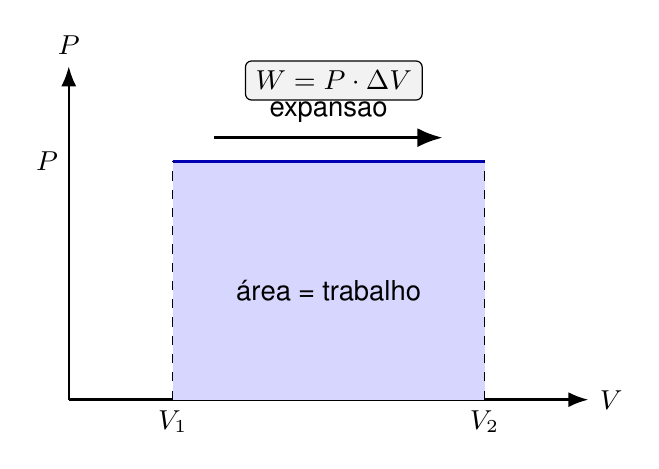
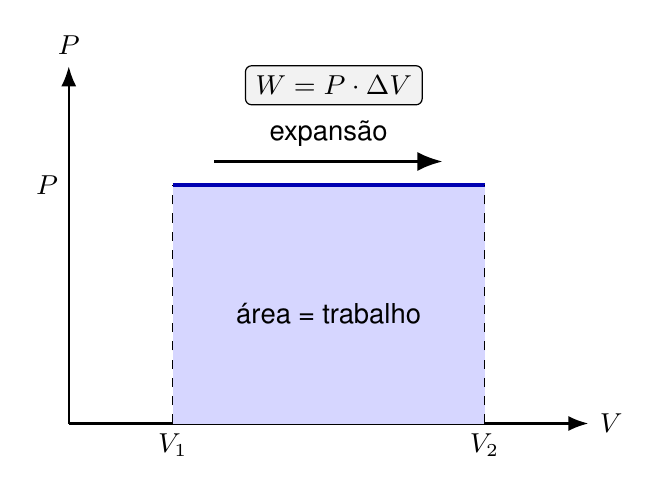
Adiciona TikZ sobre ciclos termodinamicos

diff --git a/Fisica/2serie/unidade-4-termodinamica/figuras_cap07_leis-da-termodinamica.tex b/Fisica/2serie/unidade-4-termodinamica/figuras_cap07_leis-da-termodinamica.tex
@@ -26,7 +26,7 @@
 % TikZ 2
 \begin{tikzpicture}[x=1.2cm,y=1.1cm,>=Latex]
   \draw[->,thick] (0,0) -- (5,0) node[right] {$V$};
-  \draw[->,thick] (0,0) -- (0,3.5) node[above] {$P$};
+  \draw[->,thick] (0,0) -- (0,3.75) node[above] {$P$};
   \fill[blue!16] (1,0) -- (1,2.5) -- (4,2.5) -- (4,0) -- cycle;
   \draw[very thick,blue!70!black] (1,2.5) -- (4,2.5);
   \draw[dashed] (1,0) -- (1,2.5);
@@ -36,9 +36,37 @@
   \node[left] at (0,2.5) {$P$};
   \node[align=center] at (2.5,1.15) {área = trabalho};
   \draw[very thick,->] (1.4,2.75) -- (3.6,2.75);
-  \node[above] at (2.5,2.8) {expansao};
-  \node[draw,rounded corners=2pt,fill=gray!10,align=center] at (2.55,3.35)
+  \node[above] at (2.5,2.8) {expansão};
+  \node[draw,rounded corners=2pt,fill=gray!10,align=center] at (2.55,3.55)
     {$W=P\cdot\Delta V$};
+\end{tikzpicture}
+
+% TikZ 3
+\begin{tikzpicture}[x=1.25cm,y=1.1cm,>=Latex]
+  \draw[->,thick] (0,0) -- (5.4,0) node[right] {$V$};
+  \draw[->,thick] (0,0) -- (0,3.8) node[above] {$P$};
+
+  \fill[green!16] (1.1,1) .. controls (1.3,2.9) and (3.9,3.0) .. (4.2,1.45)
+    .. controls (3.7,0.75) and (1.7,0.55) .. (1.1,1) -- cycle;
+
+  \draw[very thick,blue!70!black,->]
+    (1.1,1) .. controls (1.3,2.9) and (3.9,3.0) .. (4.2,1.45);
+  \draw[very thick,blue!70!black,->]
+    (4.2,1.45) .. controls (3.7,0.75) and (1.7,0.55) .. (1.1,1);
+
+  \node[below left] at (1.1,1) {$A$};
+  \node[right] at (4.2,1.45) {$B$};
+  \node[align=center] at (2.65,1.65) {área interna\\$=$ trabalho líquido};
+
+  \node[draw,rounded corners=2pt,fill=gray!10,align=left,text width=4.4cm]
+    at (2.75,4.25)
+    {ciclo completo: $\Delta U=0$\\o calor líquido vira trabalho líquido};
+
+  \draw[very thick,->,red!70!black] (5.35,2.8) arc[start angle=70,end angle=-250,radius=.45];
+  \node[align=left,right] at (5.85,2.8) {sentido horário:\\$W_{\mathrm{liq}}>0$};
+
+  \draw[very thick,->,orange!80!black] (5.35,1.1) arc[start angle=-70,end angle=250,radius=.45];
+  \node[align=left,right] at (5.85,1.1) {sentido anti-horário:\\$W_{\mathrm{liq}}<0$};
 \end{tikzpicture}
 
 \end{document}

diff --git a/Fisica/2serie/unidade-4-termodinamica/capitulo_07_leis-da-termodinamica.md b/Fisica/2serie/unidade-4-termodinamica/capitulo_07_leis-da-termodinamica.md
@@ -114,6 +114,8 @@ Isso não significa que nada aconteceu. Pode ter havido entrada de calor, saída
 
 Um motor térmico depende exatamente disso: transformar parte do calor recebido em trabalho, rejeitando outra parte ao ambiente.
 
+![TikZ 3 — Ciclo termodinâmico e sentido físico do trabalho líquido](https://raw.githubusercontent.com/felipeelv/conteudos-prontos/main/Fisica/2serie/unidade-4-termodinamica/figuras/cap07_tikz-3.png)
+
 ---
 
 ## NA VIDA REAL
